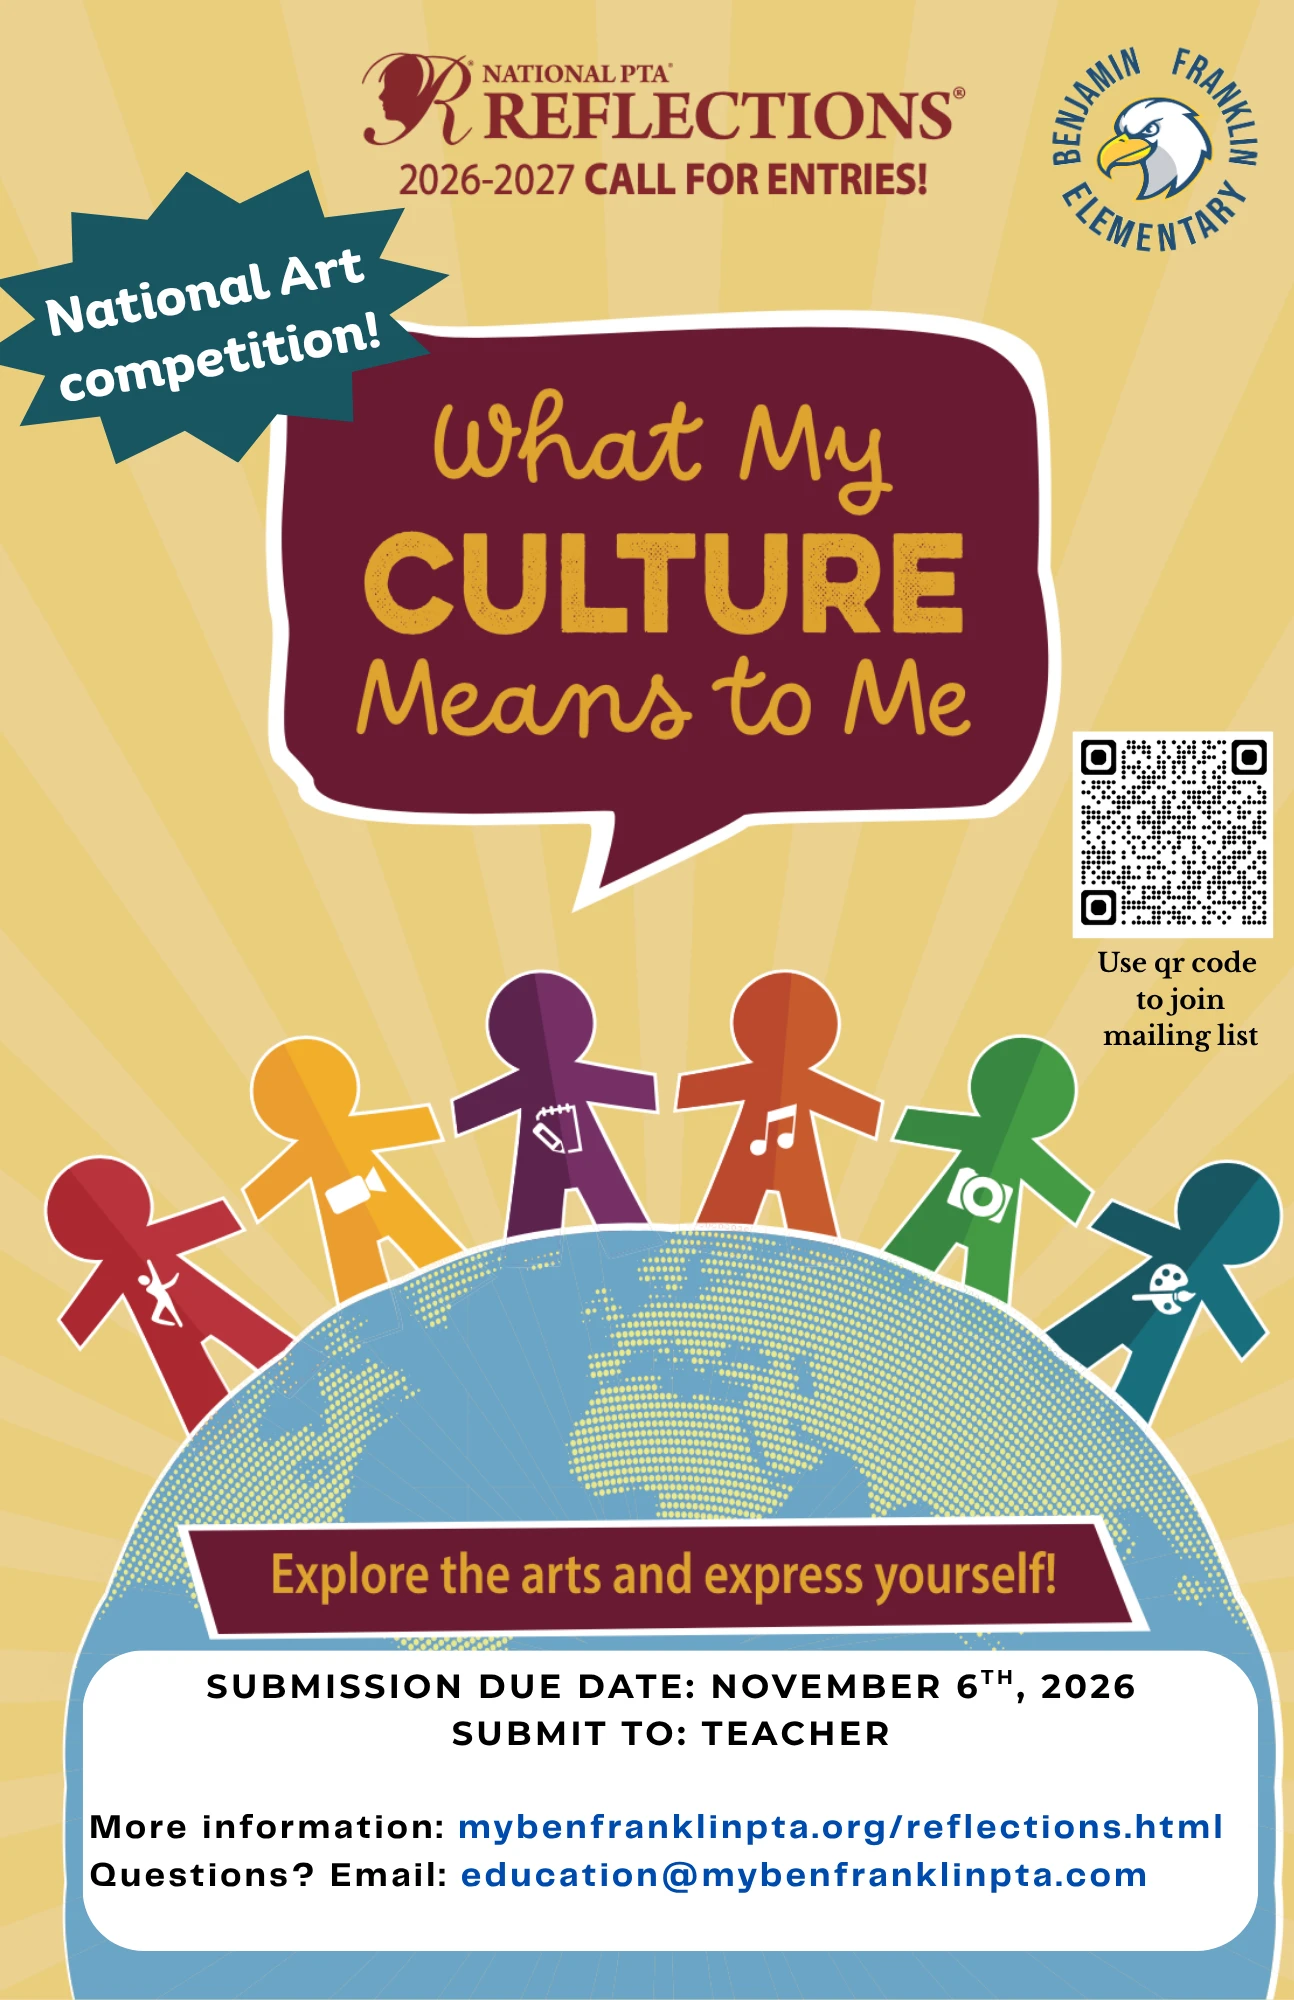
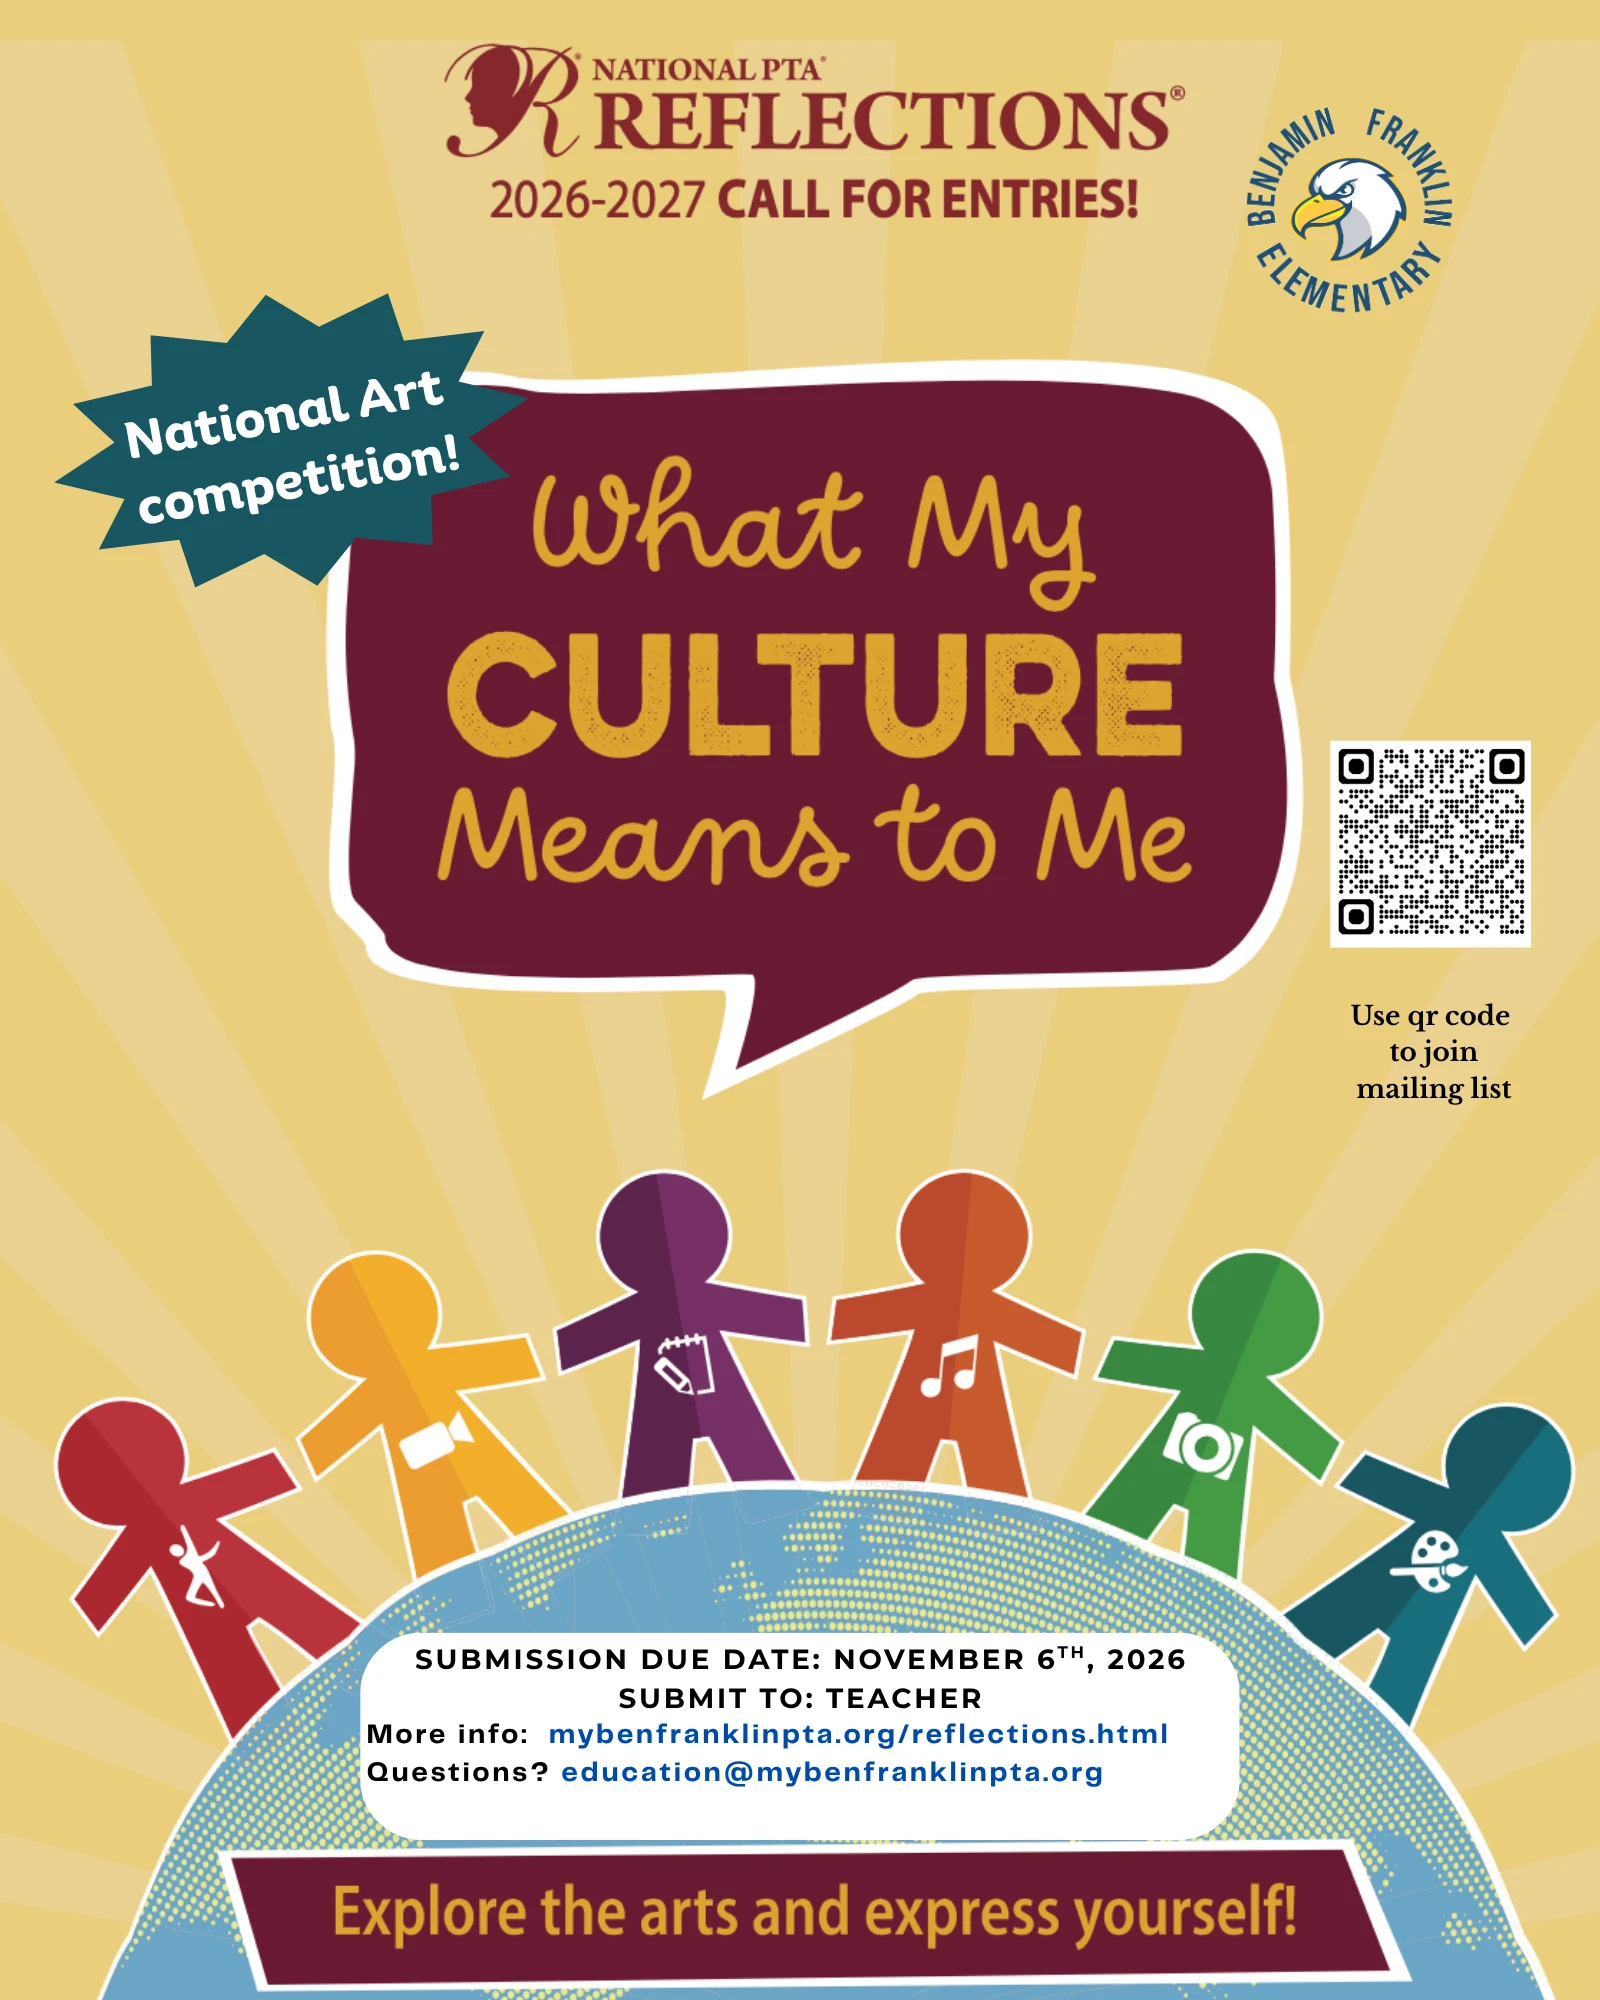
Reflections: add online submission form step, new entry form link, and updated flyer

diff --git a/public/reflections.html b/public/reflections.html
@@ -66,7 +66,8 @@
 <p><img src="assets/images/reflections-flyer.png" alt="Reflections 2026-2027 flyer"></p>
 <h2>Important details</h2>
 <ul>
-<li>You will need to turn in your artwork AND a <a href="https://benfranklinpta.sharepoint.com/:b:/s/pta/IQCWeTvH-rZ2TIIYA4FzGId8AQkri3tTd_RpfWgzo0Eveuk?e=k5IND6">student entry form</a> to your teacher.</li>
+<li>You will need to turn in your artwork to your teacher AND use this link to complete an <a href="https://forms.gle/AxQH1mk4i7ckuRsx7">online submission form</a>.</li>
+<li>You will need to upload this <a href="https://benfranklinpta-my.sharepoint.com/:b:/g/personal/sarac%5Fmybenfranklinpta%5Forg/IQDDFRw17WG9R6XlTOMaTPNxAQD71LN1nW81FiYnCHuTZx8?e=a1qWer">student entry form</a> when completing the online submission.</li>
 <li>Your artwork CANNOT have your name on the public facing side of your artwork. Please write it on the back.</li>
 </ul>
 <h2>Categories</h2>

diff --git a/content/reflections.md b/content/reflections.md
@@ -11,7 +11,8 @@ slug: reflections
 
 ## Important details
 
-- You will need to turn in your artwork AND a [student entry form](https://benfranklinpta.sharepoint.com/:b:/s/pta/IQCWeTvH-rZ2TIIYA4FzGId8AQkri3tTd_RpfWgzo0Eveuk?e=k5IND6) to your teacher.
+- You will need to turn in your artwork to your teacher AND use this link to complete an [online submission form](https://forms.gle/AxQH1mk4i7ckuRsx7).
+- You will need to upload this [student entry form](https://benfranklinpta-my.sharepoint.com/:b:/g/personal/sarac%5Fmybenfranklinpta%5Forg/IQDDFRw17WG9R6XlTOMaTPNxAQD71LN1nW81FiYnCHuTZx8?e=a1qWer) when completing the online submission.
 - Your artwork CANNOT have your name on the public facing side of your artwork. Please write it on the back.
 
 ## Categories
